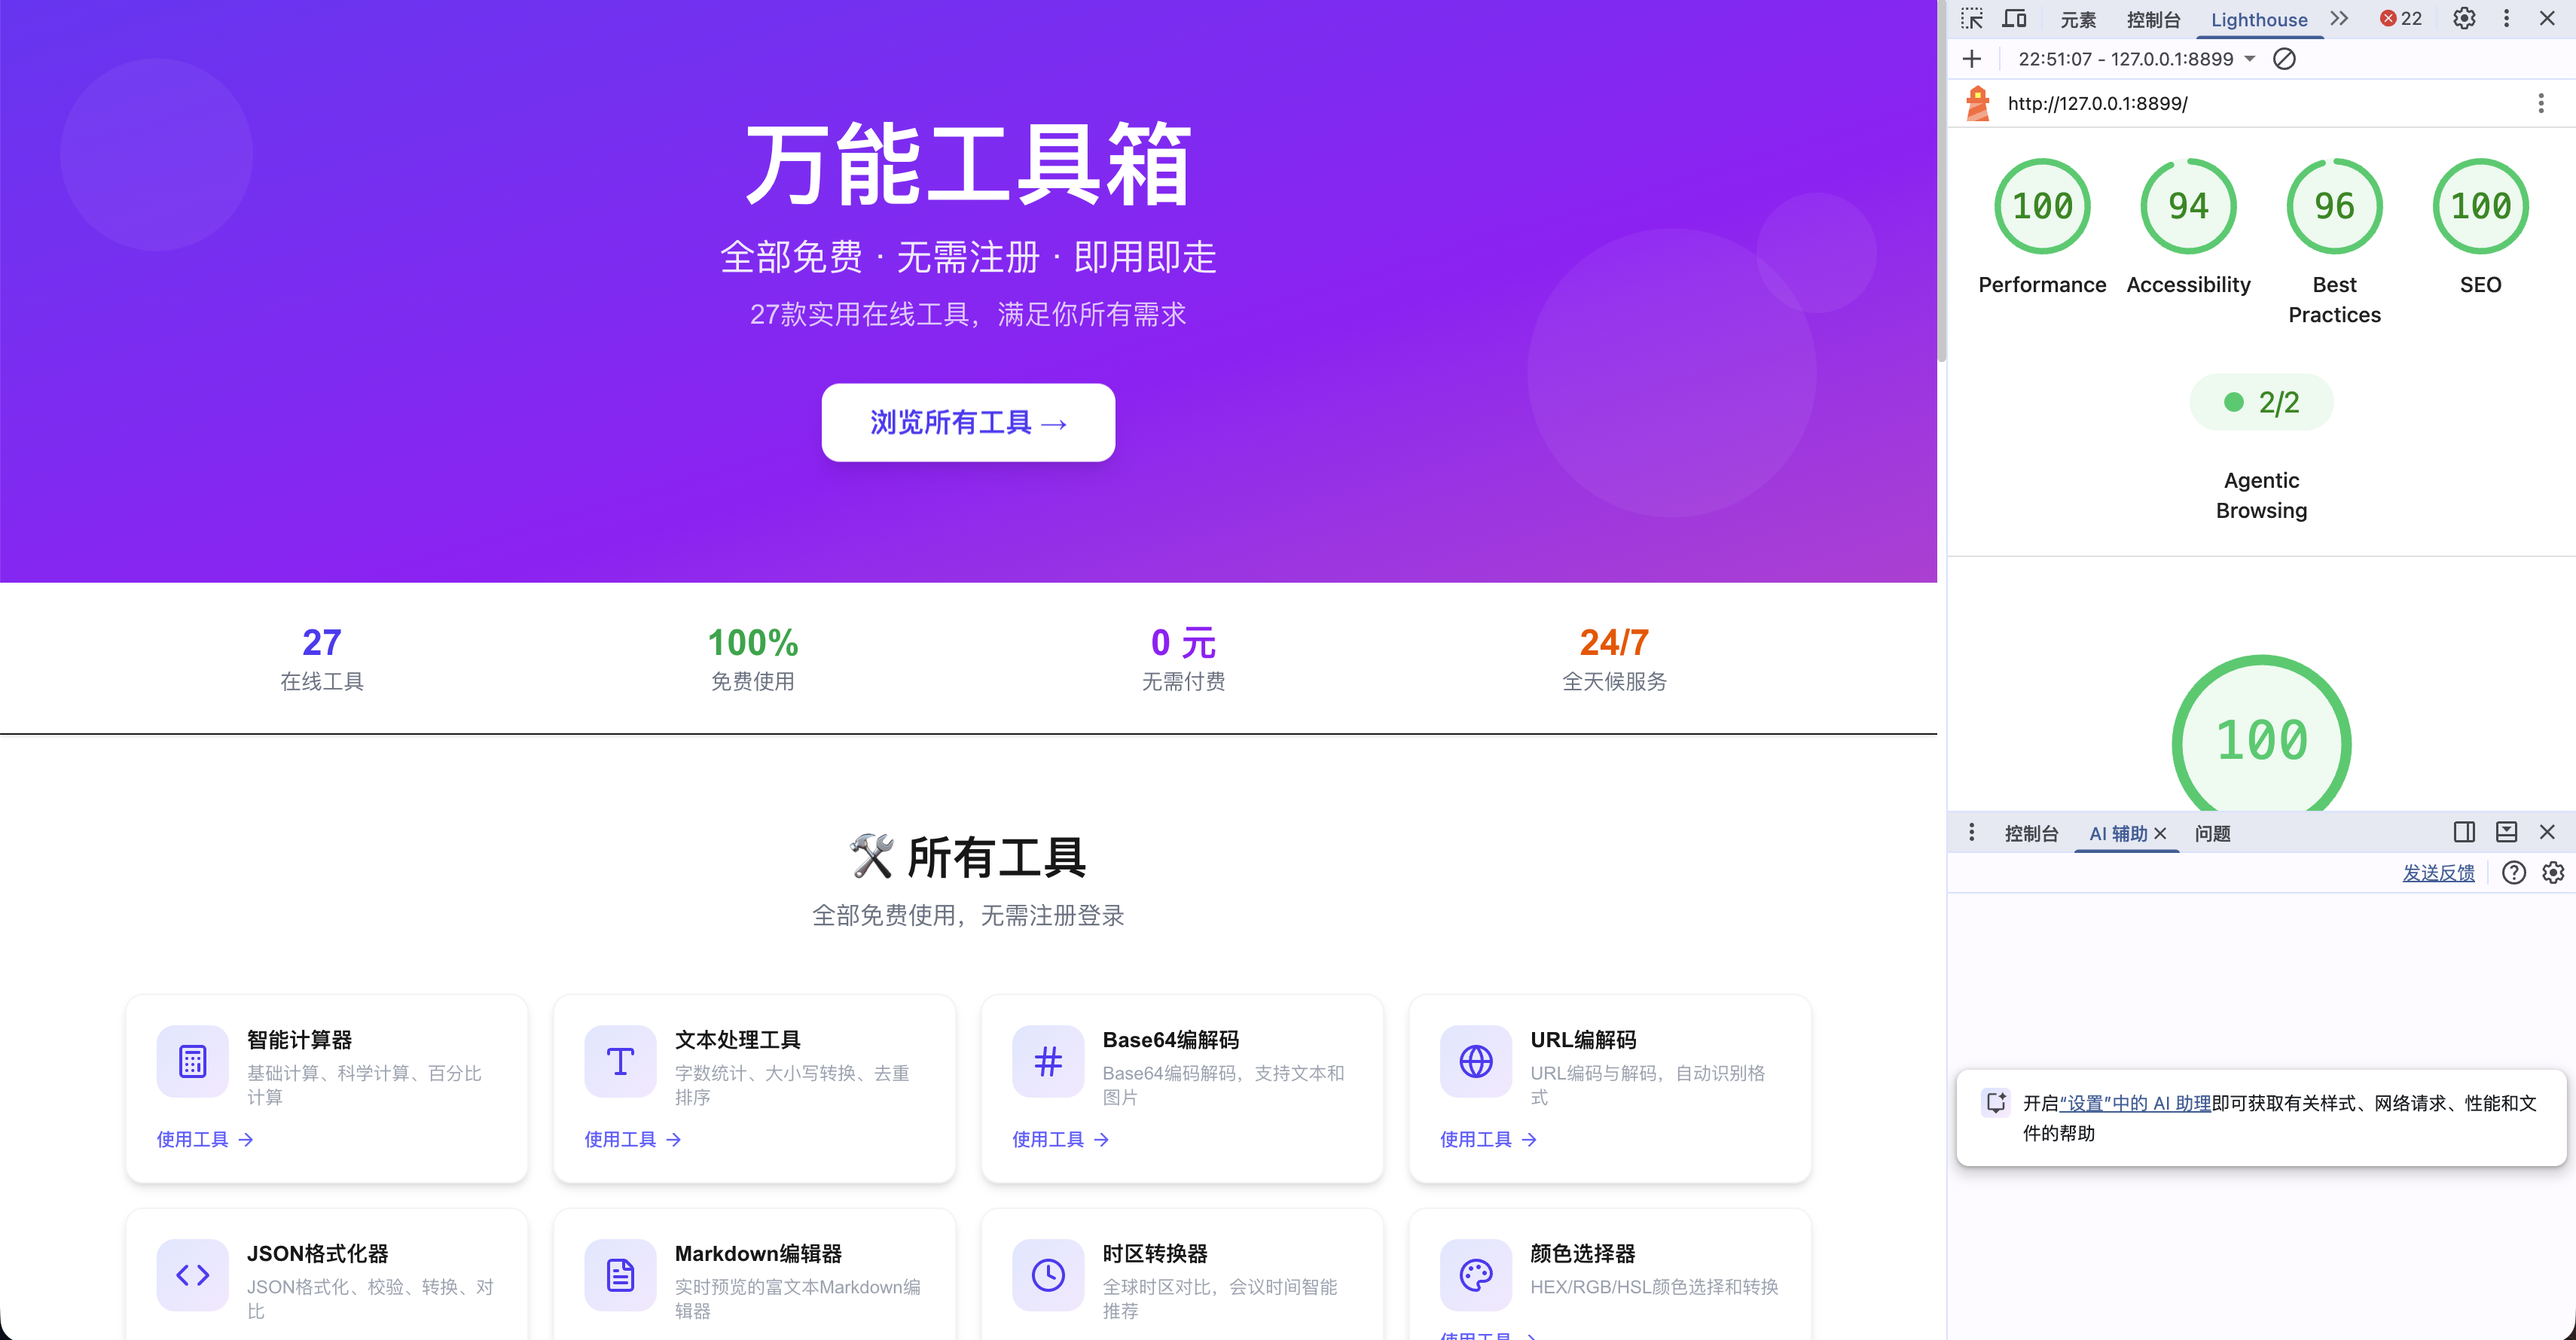
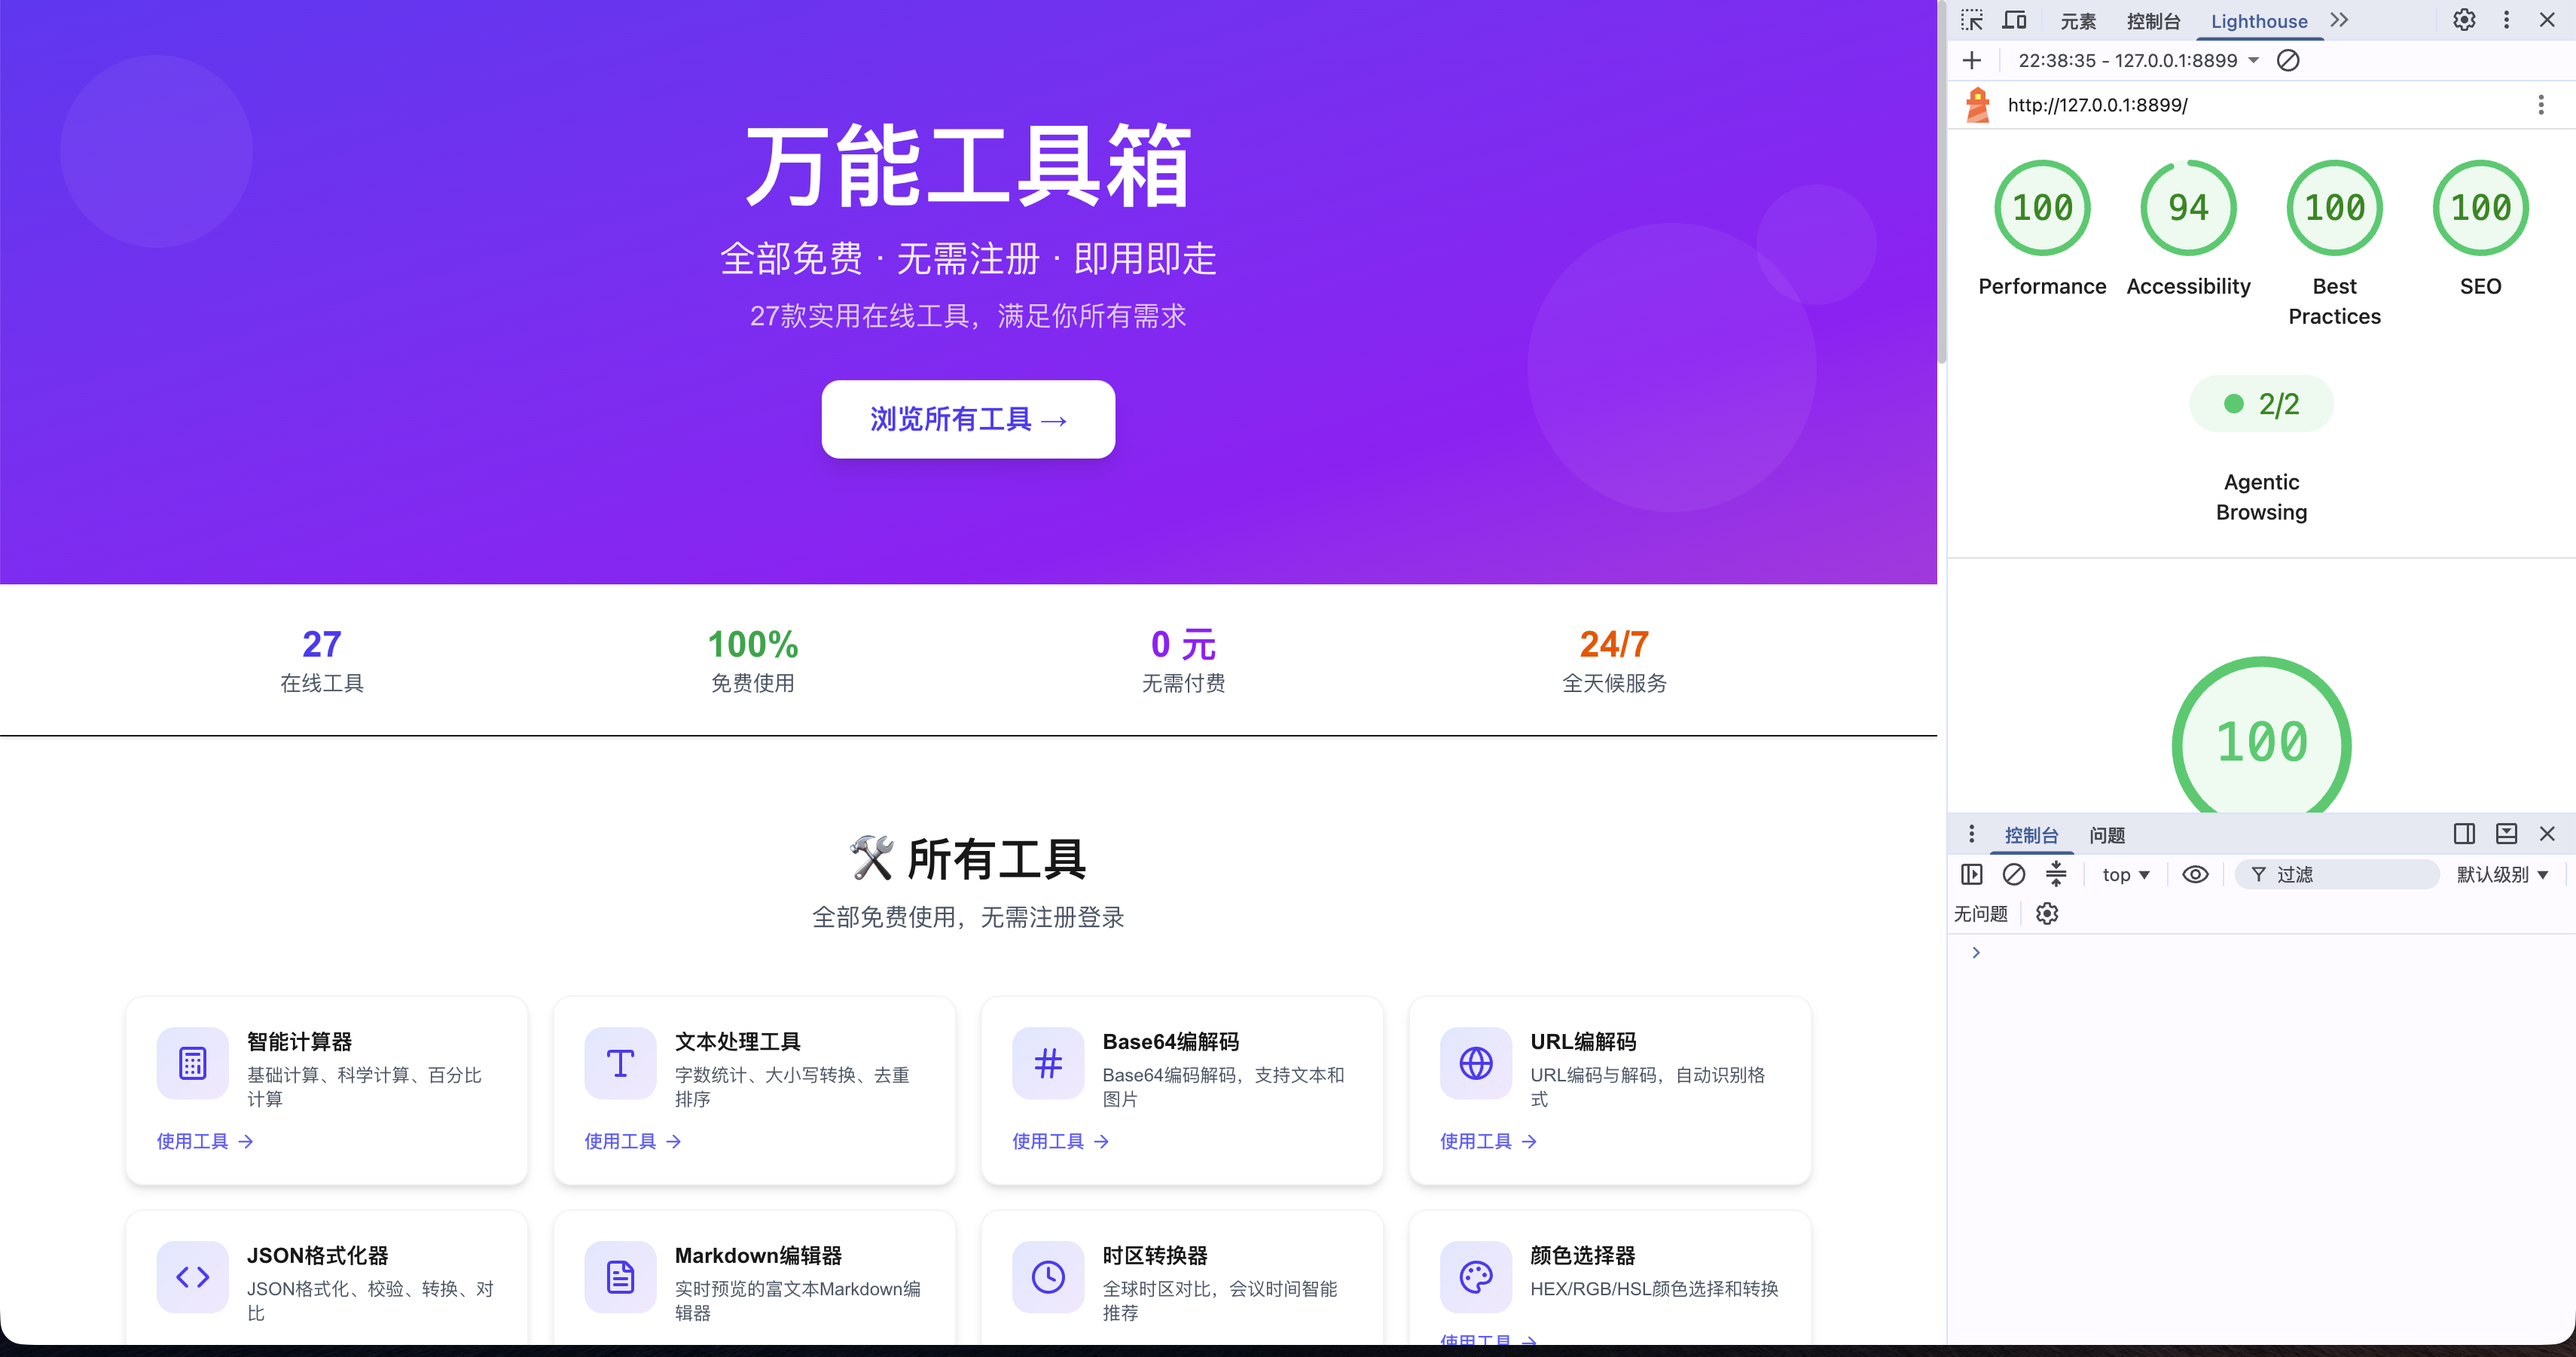
v1.0.0: update Lighthouse scores to 100/94/100/100, replace screenshot

diff --git a/tool-box.rb b/tool-box.rb
@@ -5,7 +5,7 @@ class ToolBox < Formula
   homepage "https://github.com/abczzy2011-lab/toolbox"
   url "https://github.com/abczzy2011-lab/toolbox/releases/download/v1.0.0/toolbox.zip"
   version "1.0.0"
[2 lines of base64/hex data omitted]
   license "MIT"
 
   depends_on "python@3"

diff --git a/README.md b/README.md
@@ -1,6 +1,6 @@
 # 🛠 万能工具箱
 
-![Lighthouse](https://img.shields.io/badge/Lighthouse-100%2F96%2F94%2F100-brightgreen)
+![Lighthouse](https://img.shields.io/badge/Lighthouse-100%2F94%2F100%2F100-brightgreen)
 [![License: MIT](https://img.shields.io/badge/License-MIT-blue.svg)](https://github.com/abczzy2011-lab/toolbox)
 
 > 写给每一个需要工具，却不想被工具困住的普通人。
@@ -18,8 +18,8 @@
 | 维度 | 分数 | 含义 |
 |------|------|------|
 | 🚀 Performance 性能 | **100** | 秒开，不卡顿 |
-| ♿ Accessibility 无障碍 | **96** | 所有人都能用 |
-| ⚙ Best Practices 最佳实践 | **94** | 代码健康，安全合规 |
+| ♿ Accessibility 无障碍 | **94** | 所有人都能用 |
+| ⚙ Best Practices 最佳实践 | **100** | 代码健康，安全合规 |
 | 🔍 SEO 搜索优化 | **100** | 搜索引擎友好 |
 
 > 实际测试截图：
